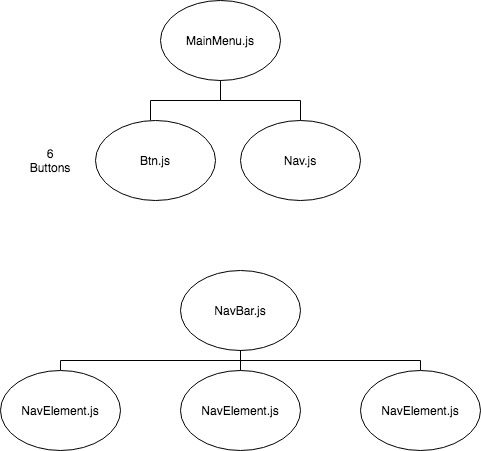
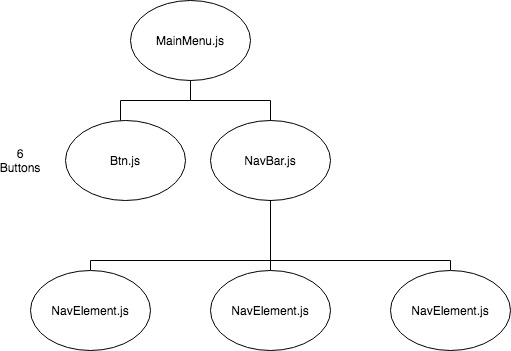
Create Component File Structure & Update minor changes to DB organization, Redux store planning, and Third Component Tree File
Discrepancy with Nav.js and NavBar.js components - only one needed, hence update
DB and Redux store need to track whether a song has been released or not
Create files and folder for Component structuring - stubbing files to come, and further structuring also in next phase of updates

diff --git a/client_folder/src/features/insufficient/InsufficientSell.js b/client_folder/src/features/insufficient/InsufficientSell.js
@@ -1,0 +1,1 @@
+// needed components located in buySell features folder

diff --git a/README.md b/README.md
@@ -108,7 +108,7 @@ New Game Initializations
     Possibly: -Achievements set to an empty array/object
 User has an array of owned instrument objects (instrument is removed when sold)
 Owned instruments have a name, a skill number, number of slots it requires, and a pointer to an image
-User has an array of song objects - each song has a randomly generated name and a success value (out of 100)
+User has an array of song objects - each song has a randomly generated name, a success value (out of 100), and a boolean of released or not
 User has an array or object that list fulfilled achievements
 
 #### Sprint Planning
